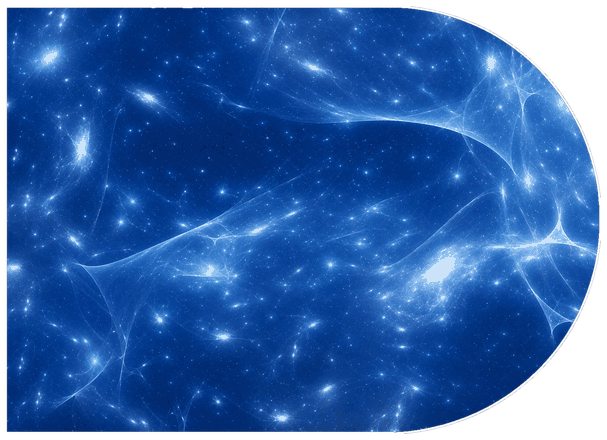
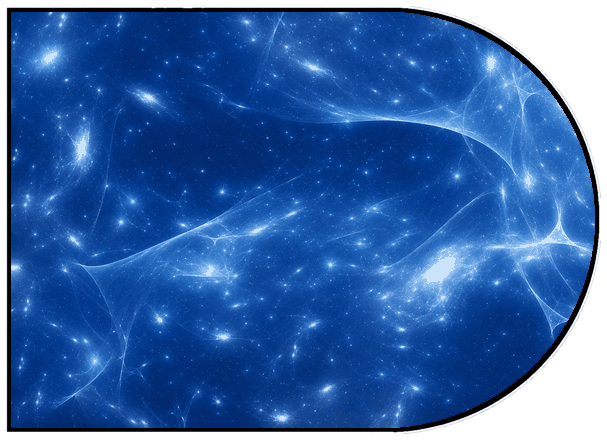
Add a black border to the Possessed pile back
Bake a black edge border around the D-tile silhouette, matched in width to
the round pile backs' ring (measured ~1% of the token size), so the
Possessed card reads consistently with the other pile backs and the Ruins
hexagon.

Claude-Session: https://claude.ai/code/session_01NVmjoUVvDY9gk4NXb37F1S

diff --git a/app/src/main/assets/enemy-tokens/README.md b/app/src/main/assets/enemy-tokens/README.md
@@ -67,9 +67,10 @@ author's own Tabletop Simulator saved game (`Saves/TS_AutoSave.json`). Unlike th
 flat `CustomImage`), each possessed token is a 3D `Custom_Model`, so its art lives in `CustomMesh.DiffuseURL`
 (the starfield texture) shaped by `CustomMesh.MeshURL` (the token's outline). The bag's *own* mesh + diffuse
 are the face-down pile's appearance — a starfield **D-tile** — which was downloaded from Steam's CDN, its
-white background keyed out to transparent, and re-encoded to a ~706×512 transparent PNG (the D's own aspect)
-whose alpha *is* the tile silhouette. `PileBackFace` then draws it at the pile's full height and
-proportionally wider, so it sits the same height as the round backs.
+white background keyed out to transparent, a **black edge border** baked on to match the round backs' ring,
+and re-encoded to a compact transparent PNG (the D's own aspect) whose alpha *is* the tile silhouette.
+`PileBackFace` then draws it at the pile's full height and proportionally wider, so it sits the same height
+as the round backs.
 
 The `backs/` pile-back art (issue #198) came from the same mod, one level up: every token object in
 a pile's bag (e.g. "Marauding Orcs" for green) carries a `CustomImage.ImageSecondaryURL` for its
